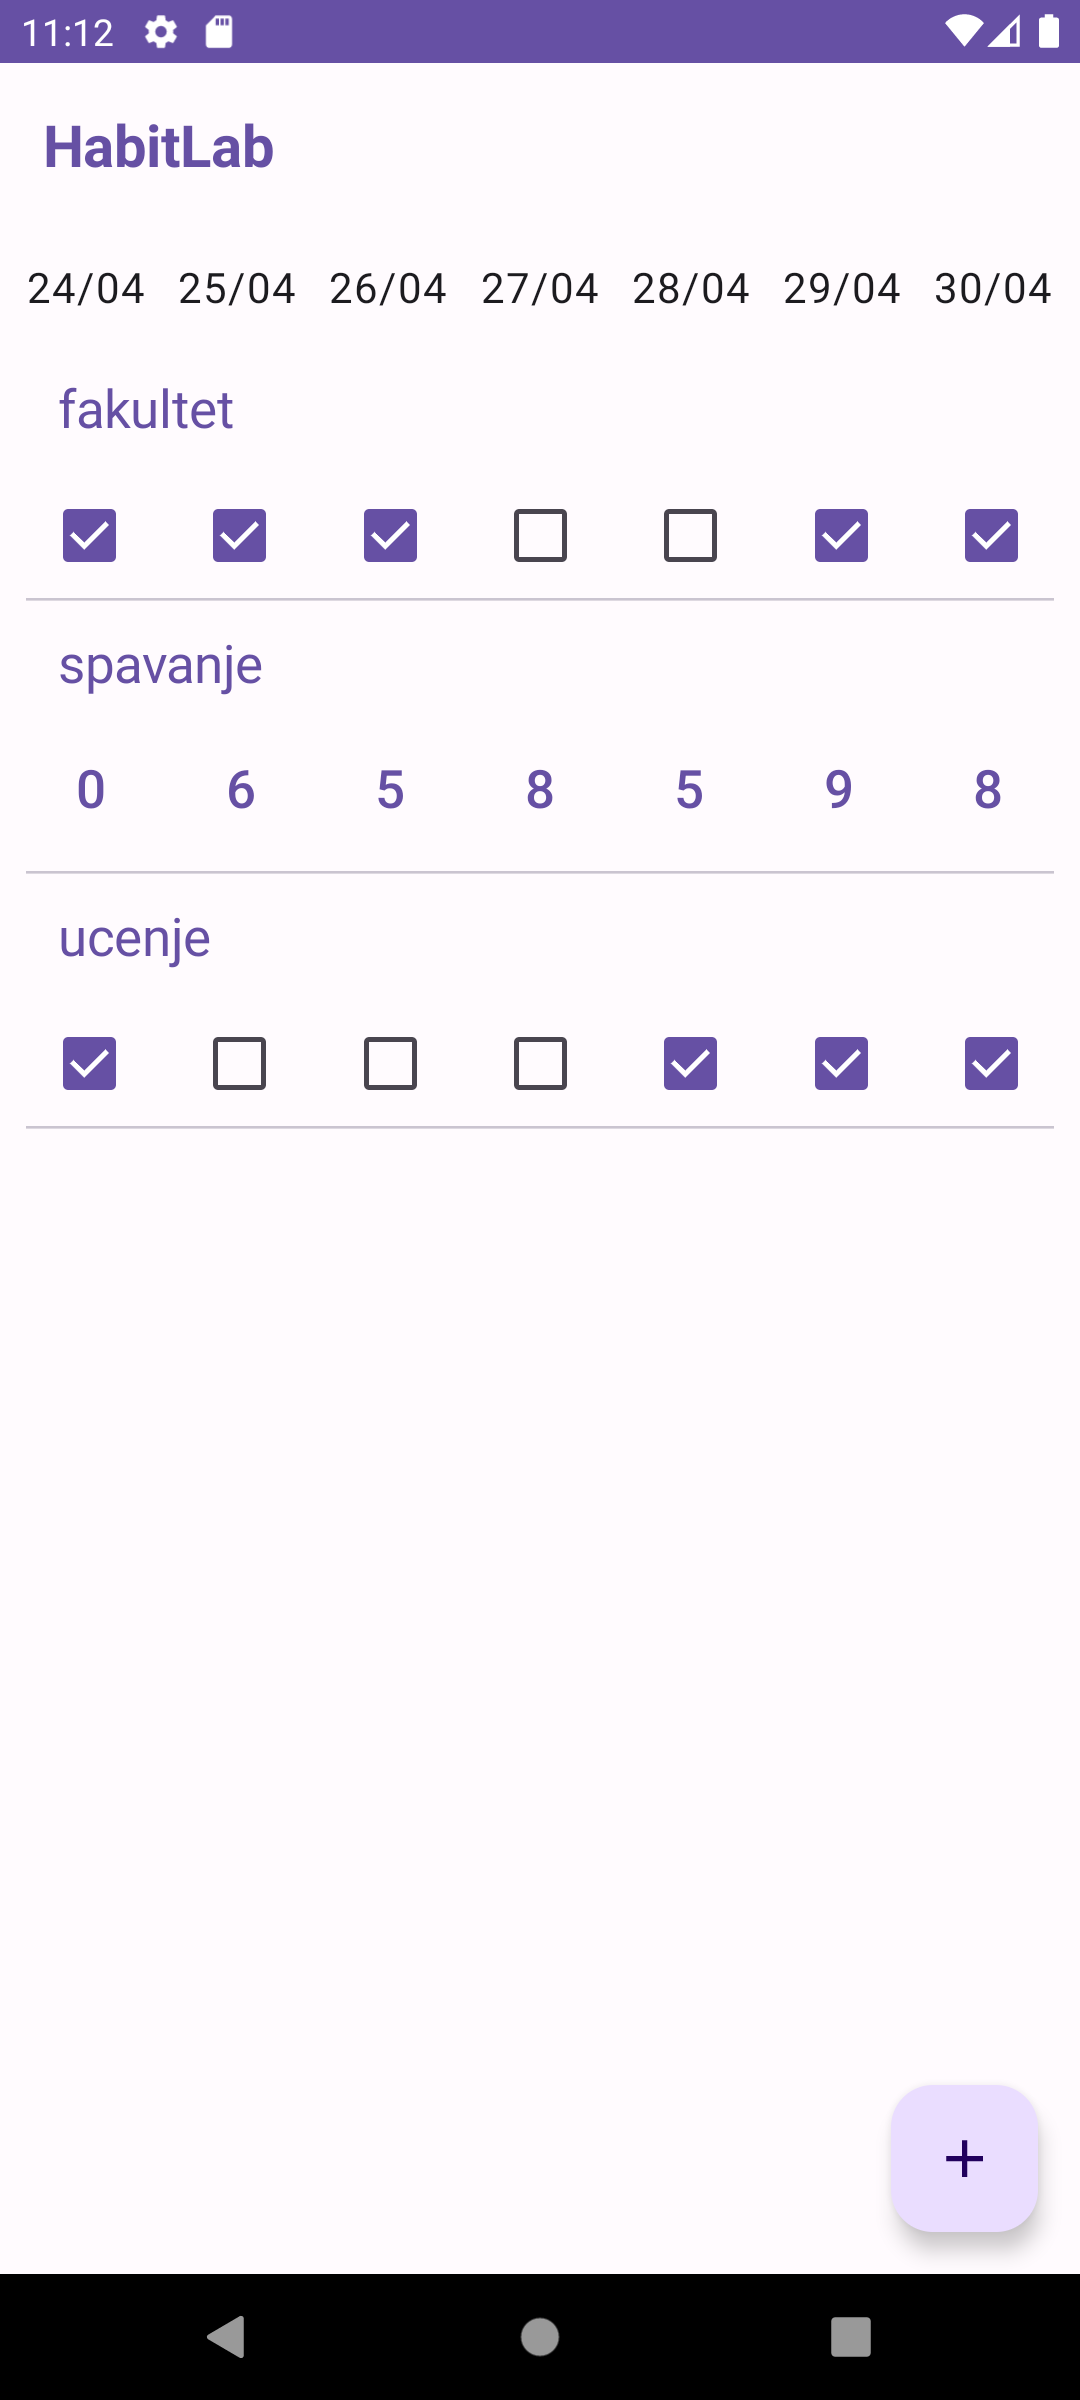
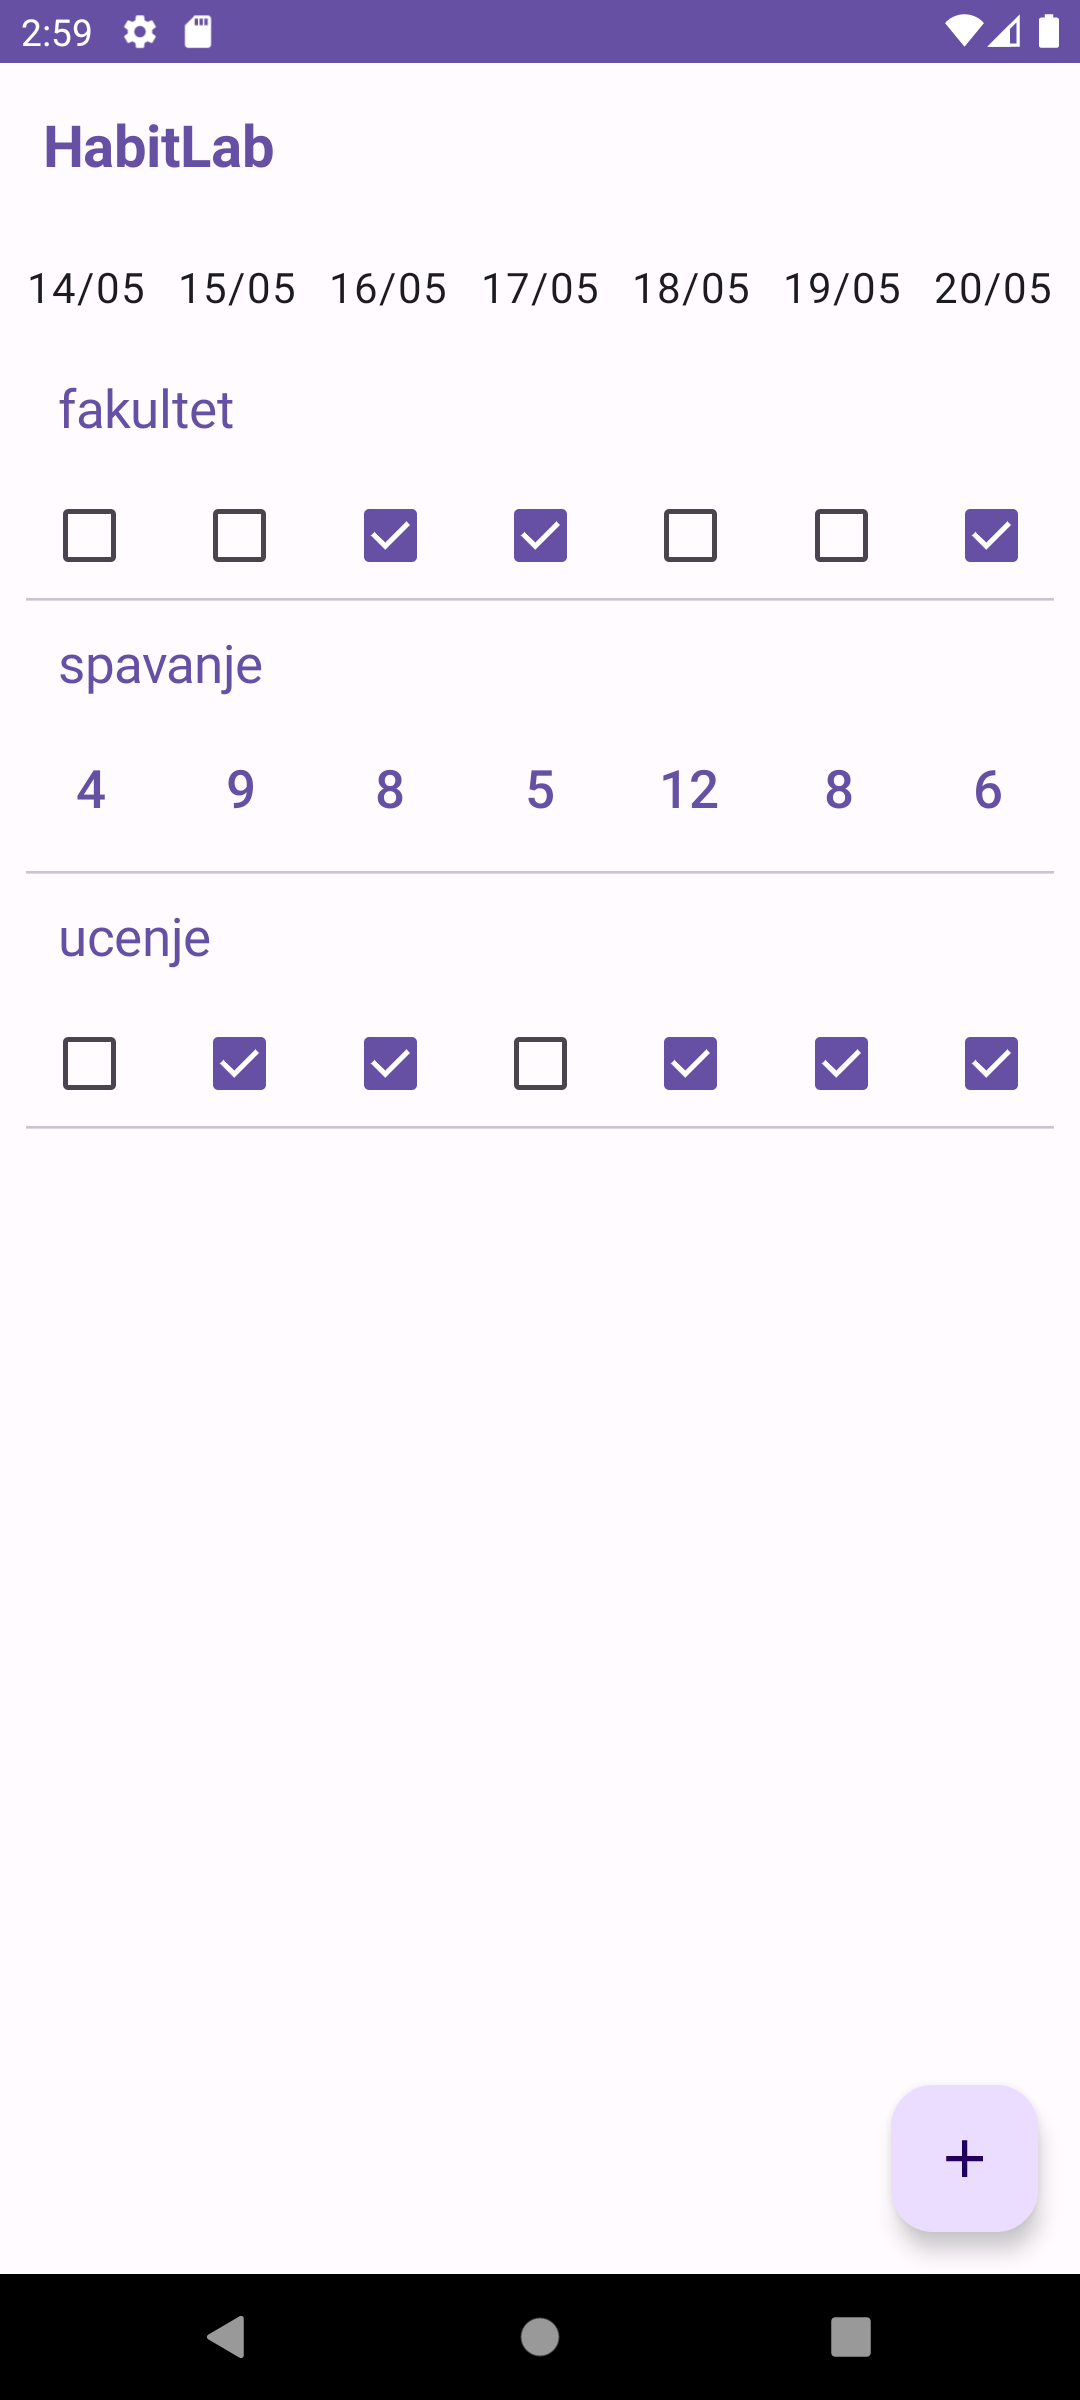
Add screenshots

diff --git a/TODO.md b/TODO.md
@@ -11,7 +11,7 @@
 - [x] promeniti izgled dijaloga na prvoj strani da se bolje slazu sa dijalozima na drugoj
 
 ## Na kraju
-- [ ] azurirati screenshot-e
+- [x] azurirati screenshot-e
 - [x] azurirati uputstvo za upotrebu
 - [ ] napraviti novi release
 
